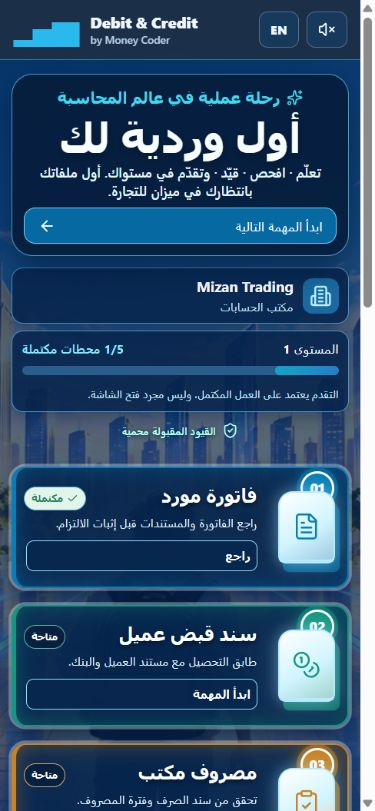
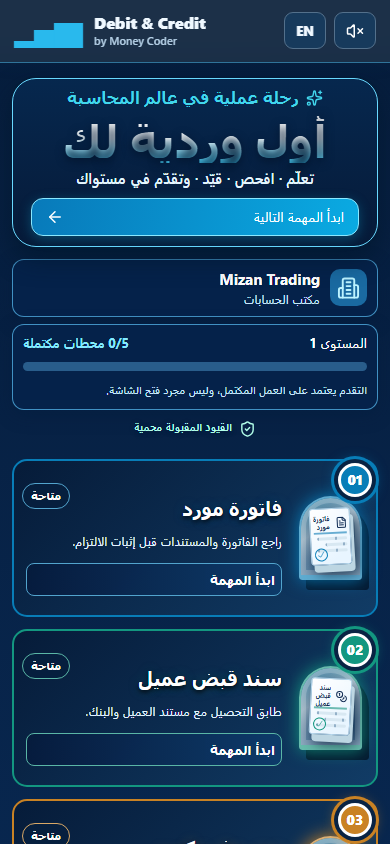
Refine First Shift portals to approved visual reference

diff --git a/app/first-shift-hub.css b/app/first-shift-hub.css
@@ -107,3 +107,83 @@ html[data-theme='dark'] .fsh-portal-index{color:color-mix(in srgb,var(--tone) 52
 .fsh-world .fsh-how b{font-size:15px}
 .fsh-world .fsh-how small{font-size:12px}
 @media(max-width:600px){.fsh-world .fsh-journey{padding-top:16px}.fsh-world .fsh-portal p{font-size:12px;min-height:0}.fsh-world .fsh-portal button{font-size:12px}}
+
+/* Reference-led mission stage: the scenery stays artwork; every gateway remains live UI. */
+.fsh-world{min-height:calc(100dvh - 72px);padding-top:17px;background-position:center 53%}
+.fsh-world:after{position:absolute;z-index:-1;inset:54% 0 0;content:'';background:linear-gradient(180deg,transparent 0,#031b3d27 18%,#04172fc9 100%);pointer-events:none}
+.fsh-world .fsh-hero{min-height:138px}
+.fsh-world .fsh-hero-copy{width:min(570px,47%);padding:7px 18px 10px;border-color:#69d9ff;border-radius:24px;background:linear-gradient(180deg,#06284ff0,#061a38f0);box-shadow:0 0 0 2px #041d37a0,0 12px 25px #00172ca8}
+.fsh-world .fsh-hero h1{font-size:clamp(52px,4.8vw,86px);background:linear-gradient(180deg,#fff 15%,#f3fcff 48%,#43d6ff 100%);background-clip:text;-webkit-background-clip:text;color:transparent;-webkit-text-fill-color:transparent}
+.fsh-world .fsh-hero-copy>p{font-size:clamp(15px,1vw,18px)}
+.fsh-world .fsh-start{background:linear-gradient(100deg,#087aba,#0aaae2);border-color:#8ae8ff;box-shadow:0 3px 12px #0b8db46b}
+.fsh-world .fsh-journey{margin-top:-26px;padding-top:0}
+.fsh-world .fsh-portal-grid{height:400px;align-items:end;gap:clamp(9px,1.1vw,21px)}
+.fsh-world .fsh-portal{position:relative;isolation:isolate;min-height:0;height:345px;padding:47px 12px 15px;overflow:visible;border:0;border-radius:0;background:none;box-shadow:none;transform:none}
+.fsh-world .fsh-portal:nth-child(1),.fsh-world .fsh-portal:nth-child(5){height:390px}
+.fsh-world .fsh-portal:nth-child(2),.fsh-world .fsh-portal:nth-child(4){height:362px}
+.fsh-world .fsh-portal:nth-child(3){height:325px}
+.fsh-world .fsh-portal:before,.fsh-world .fsh-portal:after{position:absolute;content:'';pointer-events:none;clip-path:polygon(0 100%,0 22%,10% 10%,50% 0,90% 10%,100% 22%,100% 100%)}
+.fsh-world .fsh-portal:before{z-index:-2;inset:0;background:linear-gradient(120deg,#d7f9ff 0,var(--tone) 14%,#062c5b 33%,#8aeaff 51%,var(--tone) 76%,#f3d69d 100%);filter:drop-shadow(0 10px 14px #00152b)}
+.fsh-world .fsh-portal:after{z-index:-1;inset:7px 8px 9px;background:radial-gradient(circle at 50% 57%,color-mix(in srgb,var(--tone) 33%,#123e72) 0,#09264b 53%,#04162e 100%);box-shadow:inset 0 0 25px var(--tone)}
+.fsh-world .fsh-portal:hover{transform:translateY(-5px);box-shadow:none}
+.fsh-world .fsh-portal>*{position:relative;z-index:1}
+.fsh-world .fsh-portal-top{position:absolute;z-index:2;inset:0 0 auto}
+.fsh-world .fsh-portal-index{top:-22px;width:51px;height:51px;border:3px solid #fff;font-size:24px;box-shadow:0 0 0 4px #092343,0 0 0 7px var(--tone),0 0 15px var(--tone)}
+.fsh-world .fsh-portal-status{top:34px;inset-inline-end:14px;padding:4px 8px;font-size:11px}
+.fsh-world .fsh-portal h3{order:1;margin:0 0 7px;font-size:clamp(19px,1.65vw,30px);line-height:1.15;text-shadow:0 2px 5px #000,0 0 12px color-mix(in srgb,var(--tone) 35%,transparent)}
+.fsh-world .fsh-portal-art{order:2;display:flex;flex:1;flex-direction:column;justify-content:center;width:100%;min-height:0;padding:0 4px}
+.fsh-world .fsh-portal-arch{display:flex;align-items:center;justify-content:center;width:min(100%,183px);height:100%;max-height:195px;min-height:122px;margin:auto;border:3px solid color-mix(in srgb,var(--tone) 65%,white);border-bottom-width:8px;border-radius:82px 82px 9px 9px;background:linear-gradient(150deg,#0a7ca895,#e9f9ff79 39%,#1242778c 75%);box-shadow:inset 0 0 0 5px #ffffff36,inset 0 0 25px #dffbff8f,0 0 17px var(--tone),7px 10px 0 #05182f}
+.fsh-world .fsh-portal-arch:after{inset:10px 10px 5px;height:auto;border:1px solid #d2f6ffb0;border-bottom:0;border-radius:70px 70px 0 0;opacity:.85}
+.fsh-world .fsh-portal-document{position:relative;z-index:2;display:flex;flex-direction:column;align-items:stretch;gap:8px;width:73%;height:78%;min-height:109px;padding:12px 10px;border:1px solid #b7d7ec;border-radius:4px;background:linear-gradient(145deg,#fff,#e8f5ff 82%);color:#102b53;box-shadow:3px 7px 0 #bdd6e2,6px 10px 13px #00172c9c;transform:rotate(-3deg)}
+.fsh-world .fsh-document-heading{display:flex;align-items:center;justify-content:center;gap:5px;min-height:30px;border-bottom:2px solid color-mix(in srgb,var(--tone) 55%,#dce7f2);font-size:clamp(10px,.8vw,13px);line-height:1.12}
+.fsh-world .fsh-document-heading svg{flex:none;width:19px;height:19px;stroke-width:2}
+.fsh-world .fsh-document-line{display:block;height:6px;margin-inline-end:10%;border-radius:2px;background:repeating-linear-gradient(90deg,#93b0c8 0 2px,#d8e8f2 2px 18px)}
+.fsh-world .fsh-document-line:nth-of-type(3){margin-inline-end:34%}
+.fsh-world .fsh-document-stamp{position:absolute;inset:auto auto 8px 8px;display:grid;place-items:center;width:25px;height:25px;border:2px solid var(--tone);border-radius:50%;color:var(--tone);transform:rotate(-14deg)}
+.fsh-world .fsh-document-stamp svg{width:16px;height:16px}
+.fsh-world .fsh-portal:nth-child(2) .fsh-portal-document{transform:rotate(3deg)}
+.fsh-world .fsh-portal:nth-child(3) .fsh-portal-document{transform:rotate(-4deg)}
+.fsh-world .fsh-portal:nth-child(4) .fsh-portal-document,.fsh-world .fsh-portal:nth-child(5) .fsh-portal-document{background:linear-gradient(#fff,#f2f6ff),repeating-linear-gradient(0deg,transparent 0 14px,#8fb8d4 15px 16px);transform:rotate(3deg)}
+.fsh-world .fsh-portal-pedestal{display:block;width:88%;height:13px;margin:-2px auto 0;border:1px solid #97e9ff;border-radius:50%;background:radial-gradient(ellipse,#ecffff 0,var(--tone) 38%,#073260 80%);box-shadow:0 0 17px var(--tone)}
+.fsh-world .fsh-portal p{order:3;min-height:38px;margin:8px 0 6px;font-size:clamp(12px,.85vw,15px);line-height:1.25}
+.fsh-world .fsh-portal button{order:4;min-height:35px;border-color:color-mix(in srgb,var(--tone) 70%,white);background:linear-gradient(90deg,#061b3df2,#0d3b6bed);font-size:13px}
+.fsh-world .fsh-portal.is-locked{filter:saturate(.85)}
+.fsh-world .fsh-info-grid{grid-template-columns:minmax(300px,29%) minmax(300px,29%);margin-top:-7px}
+.fsh-world .fsh-os,.fsh-world .fsh-rewards{min-height:193px;padding:10px 13px;border-color:#7cdbff;background:linear-gradient(160deg,#061b38ee,#082850ed);box-shadow:0 0 0 2px #051b36,0 12px 24px #00152ba9}
+.fsh-world .fsh-os ul{grid-template-columns:1fr;gap:2px;margin-top:8px}
+.fsh-world .fsh-os li{min-height:24px;padding:1px 6px;border:0;border-bottom:1px solid #2c6381;border-radius:0;background:transparent}
+.fsh-world .fsh-os li b{font-size:12px}.fsh-world .fsh-os li em{font-size:11px}
+.fsh-world .fsh-reward-grid{grid-template-columns:repeat(4,minmax(0,1fr));gap:5px}
+.fsh-world .fsh-reward-grid article{flex-direction:column;justify-content:center;min-height:72px;padding:5px 3px;text-align:center}
+.fsh-world .fsh-reward-grid article>span{width:28px;height:28px}
+.fsh-world .fsh-reward-grid b{font-size:11px;line-height:1.1}.fsh-world .fsh-reward-grid small{font-size:9px}
+.fsh-world .fsh-how{margin-top:10px;padding:0}
+.fsh-world .fsh-how ol{gap:7px}
+.fsh-world .fsh-how li{min-height:99px;border-width:2px;background:linear-gradient(180deg,#062648f2,#041c36f5)}
+.fsh-world .fsh-how b{font-size:clamp(13px,1vw,17px)}.fsh-world .fsh-how small{font-size:clamp(11px,.85vw,13px)}
+@media(max-width:1150px){.fsh-world .fsh-hero{min-height:175px}.fsh-world .fsh-journey{margin-top:0;padding-top:15px}.fsh-world .fsh-portal-grid{height:auto;align-items:stretch}.fsh-world .fsh-portal,.fsh-world .fsh-portal:nth-child(n){height:330px}.fsh-world .fsh-info-grid{margin-top:18px}.fsh-world .fsh-os ul{grid-template-columns:repeat(2,minmax(0,1fr))}.fsh-world .fsh-reward-grid{grid-template-columns:repeat(2,minmax(0,1fr))}.fsh-world .fsh-reward-grid article{flex-direction:row;text-align:start}}
+@media(max-width:780px){.fsh-world .fsh-hero{min-height:0}.fsh-world .fsh-hero-copy{width:100%}.fsh-world .fsh-journey{padding-top:22px}.fsh-world .fsh-info-grid{grid-template-columns:1fr 1fr}.fsh-world .fsh-os ul{grid-template-columns:1fr}}
+@media(max-width:600px){.fsh-world{min-height:0;padding-top:16px}.fsh-world .fsh-hero h1{font-size:45px}.fsh-world .fsh-journey{padding-top:18px}.fsh-world .fsh-portal-grid{gap:12px}.fsh-world .fsh-portal,.fsh-world .fsh-portal:nth-child(n){display:grid;grid-template-columns:74px minmax(0,1fr);grid-template-rows:auto auto auto;height:auto;min-height:158px;padding:14px 12px;border:2px solid var(--tone);border-radius:15px;background:linear-gradient(135deg,#061b38f2,#123e68e9);text-align:start}.fsh-world .fsh-portal:before,.fsh-world .fsh-portal:after,.fsh-world .fsh-portal-pedestal{display:none}.fsh-world .fsh-portal-top{inset:0 0 auto}.fsh-world .fsh-portal-index{top:-12px;left:auto;inset-inline-start:-8px;width:34px;height:34px;transform:none;font-size:14px}.fsh-world .fsh-portal-status{top:8px;inset-inline-end:8px}.fsh-world .fsh-portal h3{grid-column:2;grid-row:1;margin:19px 0 0;font-size:19px}.fsh-world .fsh-portal-art{grid-column:1;grid-row:1/4;width:67px;padding:0}.fsh-world .fsh-portal-arch{width:63px;height:84px;min-height:0;border-width:2px;border-bottom-width:5px}.fsh-world .fsh-portal-document{width:70%;height:74%;min-height:0;gap:3px;padding:5px 3px}.fsh-world .fsh-document-heading{min-height:20px;font-size:7px}.fsh-world .fsh-document-heading svg{width:12px;height:12px}.fsh-world .fsh-document-line{height:3px}.fsh-world .fsh-document-stamp{width:13px;height:13px;inset:auto auto 3px 3px;border-width:1px}.fsh-world .fsh-document-stamp svg{width:9px;height:9px}.fsh-world .fsh-portal p{grid-column:2;grid-row:2;min-height:0;margin:4px 0;font-size:12px}.fsh-world .fsh-portal button{grid-column:2;grid-row:3;width:100%;min-height:32px}.fsh-world .fsh-info-grid{grid-template-columns:1fr}.fsh-world .fsh-reward-grid{grid-template-columns:repeat(2,minmax(0,1fr))}.fsh-world .fsh-how ol{grid-template-columns:1fr}}
+
+@media(min-width:1151px){
+ .fsh-world .fsh-hero-copy{width:min(510px,41%);padding:6px 15px 8px}
+ .fsh-world .fsh-hero h1{font-size:clamp(52px,4vw,70px)}
+ .fsh-world .fsh-hero-copy>p{margin:1px 0 5px;white-space:nowrap;font-size:clamp(14px,.95vw,17px)}
+ .fsh-world .fsh-start{min-height:30px;padding:4px 11px;font-size:12px}
+ .fsh-world .fsh-hero-side{grid-template-columns:170px 220px;width:396px;gap:5px}
+ .fsh-world .fsh-company,.fsh-world .fsh-progress{min-height:62px}
+ .fsh-world .fsh-progress small{display:none}
+ .fsh-world .fsh-books-health{grid-column:1/-1;justify-content:end;margin-top:-3px}
+ .fsh-world .fsh-portal-grid{height:330px}
+ .fsh-world .fsh-portal:nth-child(1),.fsh-world .fsh-portal:nth-child(5){top:-68px;height:320px}
+ .fsh-world .fsh-portal:nth-child(2),.fsh-world .fsh-portal:nth-child(4){top:-42px}
+ .fsh-world .fsh-portal:nth-child(2),.fsh-world .fsh-portal:nth-child(4){height:295px}
+ .fsh-world .fsh-portal:nth-child(3){top:-8px;height:265px}
+ .fsh-world .fsh-portal-arch{min-height:105px}
+ .fsh-world .fsh-portal-document{min-height:90px;gap:5px}
+ .fsh-world .fsh-portal:nth-child(3) .fsh-portal-arch{min-height:88px}
+ .fsh-world .fsh-portal:nth-child(3) .fsh-portal-document{min-height:76px;padding:6px 5px;gap:4px}
+ .fsh-world .fsh-portal h3{margin-bottom:4px}
+ .fsh-world .fsh-portal p{min-height:29px;margin:4px 0;font-size:12px}
+ .fsh-world .fsh-portal button{min-height:31px}
+}

diff --git a/components/campaign/first-shift-mission-hub.tsx b/components/campaign/first-shift-mission-hub.tsx
@@ -21,7 +21,7 @@ export function FirstShiftMissionHub({locale,state,inactive,pendingDocuments,led
  const start=()=>firstPending?onOpenCase(firstPending.id):!mission.journalComplete?onOpenJournal:onOpenLedger();
  return <section className="shift-home fsh-shell" dir={ar?'rtl':'ltr'} inert={inactive}>
   <header className="fsh-topbar"><Link href={`/${locale}`} className="fsh-brand"><span aria-hidden="true" className="fsh-brand-mark">▂▅▇</span><span>Debit &amp; Credit<small>by Money Coder</small></span></Link><nav aria-label={say('First Shift navigation','تنقل أول وردية')}><span className="active"><BriefcaseBusiness/>{say('First Shift','أول وردية')}</span><Link href={`/${locale}/account-guide?return=first-day`}><BookOpen/>{say('Account guide','دليل الحسابات')}</Link><Link href={`/${locale}/career-league/map`}><GraduationCap/>{say('Career map','المسار المهني')}</Link></nav><div className="fsh-top-actions"><span className="fsh-xp"><Zap/>{state.xp} XP</span><SimulationSound locale={locale}/><Link href={`/${ar?'en':'ar'}`} aria-label={say('Switch to Arabic','التبديل للإنجليزية')}>{ar?'EN':'AR'}</Link></div></header>
-  <main className="fsh-content"><div className="fsh-world"><section className="fsh-hero" aria-labelledby="fsh-title"><div className="fsh-hero-copy"><span className="fsh-eyebrow"><Sparkles/>{say('A real journey through accounting','رحلة عملية في عالم المحاسبة')}</span><h1 id="fsh-title">{say('Your first shift.','أول وردية لك')}</h1><p>{say('Learn · investigate · post · grow in your role. Your first files are waiting at Mizan Trading.','تعلّم · افحص · قيّد · وتقدّم في مستواك. أول ملفاتك بانتظارك في ميزان للتجارة.')}</p><button className="fsh-start" onClick={start}><span>{firstPending?say('Start the next case','ابدأ المهمة التالية'):mission.journalComplete?say('Open the ledger','افتح دفتر الأستاذ'):say('Review the journal','راجع دفتر اليومية')}</span><Arrow/></button></div><div className="fsh-hero-side"><div className="fsh-company"><span><Building2/></span><div><b>Mizan Trading</b><small>{say('Accounting department','مكتب الحسابات')}</small></div></div><MissionProgressPanel locale={locale} level={mission.level} completed={mission.completedCount} total={mission.total}/><div className="fsh-books-health"><ShieldCheck/><span>{ledgerErrors?say('Review required before closing','الدفاتر تحتاج مراجعة قبل الإقفال'):say('Accepted books are protected','القيود المقبولة محمية')}</span></div></div><div className="fsh-skyline" aria-hidden="true"><i/><i/><i/><i/><i/><i/><i/><i/><i/></div></section>
+  <main className="fsh-content"><div className="fsh-world"><section className="fsh-hero" aria-labelledby="fsh-title"><div className="fsh-hero-copy"><span className="fsh-eyebrow"><Sparkles/>{say('A real journey through accounting','رحلة عملية في عالم المحاسبة')}</span><h1 id="fsh-title">{say('Your first shift.','أول وردية لك')}</h1><p>{say('Learn · investigate · post · grow in your role.','تعلّم · افحص · قيّد · وتقدّم في مستواك')}</p><button className="fsh-start" onClick={start}><span>{firstPending?say('Start the next case','ابدأ المهمة التالية'):mission.journalComplete?say('Open the ledger','افتح دفتر الأستاذ'):say('Review the journal','راجع دفتر اليومية')}</span><Arrow/></button></div><div className="fsh-hero-side"><div className="fsh-company"><span><Building2/></span><div><b>Mizan Trading</b><small>{say('Accounting department','مكتب الحسابات')}</small></div></div><MissionProgressPanel locale={locale} level={mission.level} completed={mission.completedCount} total={mission.total}/><div className="fsh-books-health"><ShieldCheck/><span>{ledgerErrors?say('Review required before closing','الدفاتر تحتاج مراجعة قبل الإقفال'):say('Accepted books are protected','القيود المقبولة محمية')}</span></div></div><div className="fsh-skyline" aria-hidden="true"><i/><i/><i/><i/><i/><i/><i/><i/><i/></div></section>
   <section className="fsh-journey" aria-labelledby="fsh-journey-title"><div className="fsh-section-heading"><div><small>{say('YOUR ACCOUNTING JOURNEY','رحلتك داخل مكتب الحسابات')}</small><h2 id="fsh-journey-title">{say('Five clear stops. One real first shift.','خمس محطات واضحة. وردية حقيقية واحدة.')}</h2></div><span>{say('Choose a file to begin','اختر ملفًا لتبدأ')} <Arrow/></span></div><div className="fsh-portal-grid">{portals.map(portal=><MissionPortalCard key={portal.id} locale={locale} portal={portal}/>)}</div></section>
   <div className="fsh-info-grid"><section className="fsh-os" role="region" aria-label={say('Mizan accounting system','نظام ميزان المحاسبي')}><div className="fsh-panel-title"><span><Building2/></span><div><small>MIZAN TRADING</small><h2>Mizan OS</h2></div><b>{pendingDocuments} {say('files in inbox','ملفات في الوارد')}</b></div><ul>{portals.map(portal=><li key={portal.id}><span className={portal.done?'done':''}>{portal.done?<Check/>:portal.locked?<LockKeyhole/>:null}</span><b>{portal.title[locale]}</b><em>{portal.done?'1/1':'0/1'}</em></li>)}</ul><p className="fsh-processed-tray">{say('PROCESSED TRAY','درج تمت المعالجة')} <b>{mission.cases.filter(item=>item.done).length}</b></p></section><MissionRewardsPanel locale={locale} state={state}/></div>
   <MissionHowItWorks locale={locale}/><footer className="fsh-footer"><span><ShieldCheck/>{say('Local-first simulation. Your accepted journal remains safe.','محاكاة محلية. اليومية المقبولة تظل آمنة.')}</span><div><button onClick={onOpenCalculator} aria-label={say('Open calculator','افتح الآلة الحاسبة')}><Calculator/>{say('Calculator','الآلة الحاسبة')}</button><Link href={`/${locale}/game/bank-reconciliation`}>{say('Next workpaper: Bank Reconciliation','ملف عمل لاحق: التسوية البنكية')}<ChevronRight/></Link></div></footer></div></main>
@@ -30,7 +30,7 @@ export function FirstShiftMissionHub({locale,state,inactive,pendingDocuments,led
  </section>;
 }
 
-function MissionPortalCard({locale,portal}:{locale:Locale;portal:Portal}){const ar=locale==='ar',say=(en:string,a:string)=>ar?a:en,Icon=portal.icon,Arrow=ar?ArrowLeft:ArrowRight;return <article className={`fsh-portal tone-${portal.tone} ${portal.done?'is-done':''} ${portal.locked?'is-locked':''}`}><div className="fsh-portal-top"><span className="fsh-portal-index">{portal.number.toString().padStart(2,'0')}</span><span className="fsh-portal-status">{portal.done?<><Check/>{say('Completed','مكتملة')}</>:portal.locked?<><LockKeyhole/>{say('Locked','مقفلة')}</>:say('Available','متاحة')}</span></div><div className="fsh-portal-art" aria-hidden="true"><div className="fsh-portal-arch"><Icon/></div></div><h3>{portal.title[locale]}</h3><p>{portal.description[locale]}</p><button onClick={portal.onOpen} disabled={portal.locked} aria-label={`${portal.title[locale]} · ${portal.done?say('Review','راجع'):portal.locked?say('Locked','مقفلة'):say('Open document','افتح المستند')}`}><span>{portal.done?say('Review','راجع'):portal.locked?say('After the first entry','بعد أول قيد'):say('Start mission','ابدأ المهمة')}</span><Arrow/></button></article>}
+function MissionPortalCard({locale,portal}:{locale:Locale;portal:Portal}){const ar=locale==='ar',say=(en:string,a:string)=>ar?a:en,Icon=portal.icon,Arrow=ar?ArrowLeft:ArrowRight;return <article className={`fsh-portal tone-${portal.tone} ${portal.done?'is-done':''} ${portal.locked?'is-locked':''}`}><div className="fsh-portal-top"><span className="fsh-portal-index">{portal.number.toString().padStart(2,'0')}</span><span className="fsh-portal-status">{portal.done?<><Check/>{say('Completed','مكتملة')}</>:portal.locked?<><LockKeyhole/>{say('Locked','مقفلة')}</>:say('Available','متاحة')}</span></div><h3>{portal.title[locale]}</h3><div className="fsh-portal-art" aria-hidden="true"><div className="fsh-portal-arch"><span className="fsh-portal-document"><span className="fsh-document-heading"><Icon/><b>{portal.title[locale]}</b></span><span className="fsh-document-line"/><span className="fsh-document-line"/><span className="fsh-document-line"/><span className="fsh-document-stamp"><Check/></span></span></div><span className="fsh-portal-pedestal"/></div><p>{portal.description[locale]}</p><button onClick={portal.onOpen} disabled={portal.locked} aria-label={`${portal.title[locale]} · ${portal.done?say('Review','راجع'):portal.locked?say('Locked','مقفلة'):say('Open document','افتح المستند')}`}><span>{portal.done?say('Review','راجع'):portal.locked?say('After the first entry','بعد أول قيد'):say('Start mission','ابدأ المهمة')}</span><Arrow/></button></article>}
 
 function MissionProgressPanel({locale,level,completed,total}:{locale:Locale;level:number;completed:number;total:number}){const ar=locale==='ar',say=(en:string,a:string)=>ar?a:en;return <section className="fsh-progress" aria-label={say('Shift progress','تقدم الوردية')}><div><span>{say('Level','المستوى')} <b>{level}</b></span><strong>{completed}/{total} {say('stops complete','محطات مكتملة')}</strong></div><div className="fsh-progress-track" role="progressbar" aria-label={say('Shift progress','تقدم الوردية')} aria-valuemin={0} aria-valuemax={total} aria-valuenow={completed}><i style={{width:`${completed/total*100}%`}}/></div><small>{say('Progress comes from completed work, not just opening a screen.','التقدم يعتمد على العمل المكتمل، وليس مجرد فتح الشاشة.')}</small></section>}
 
